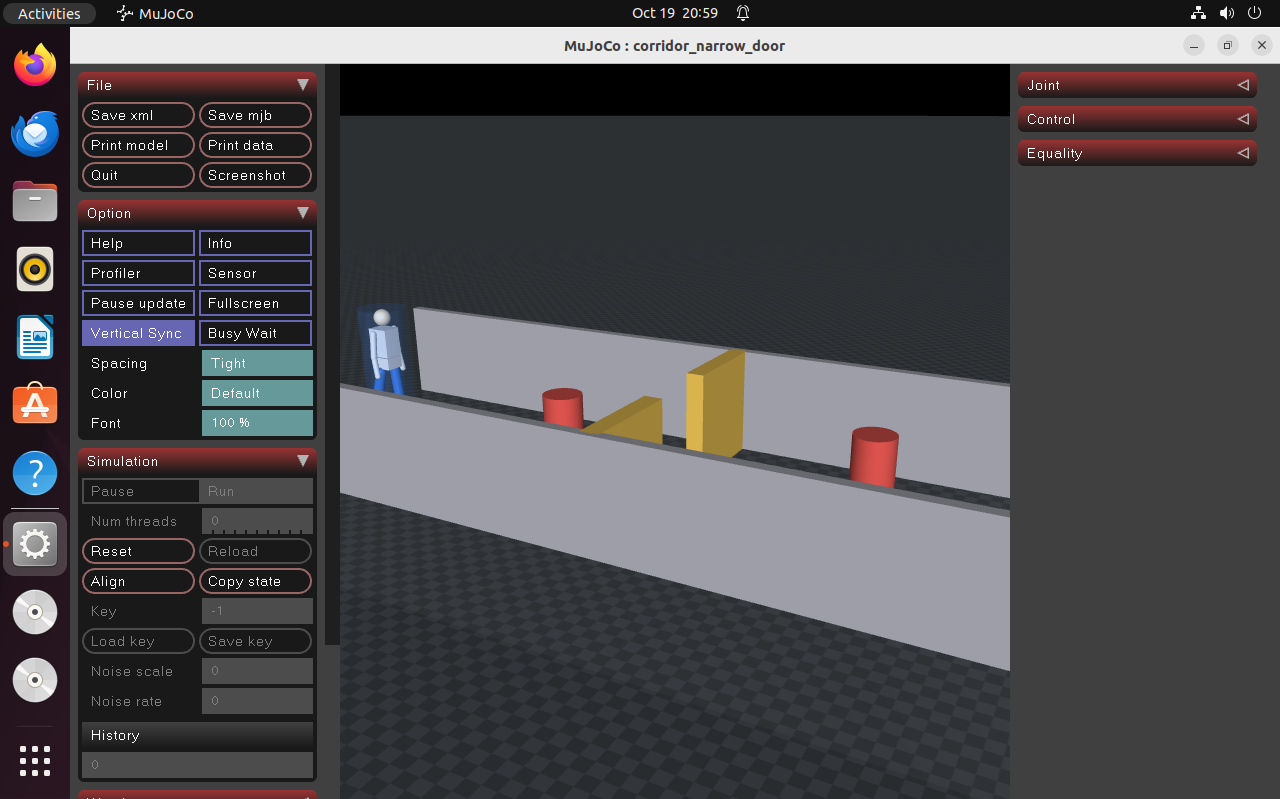
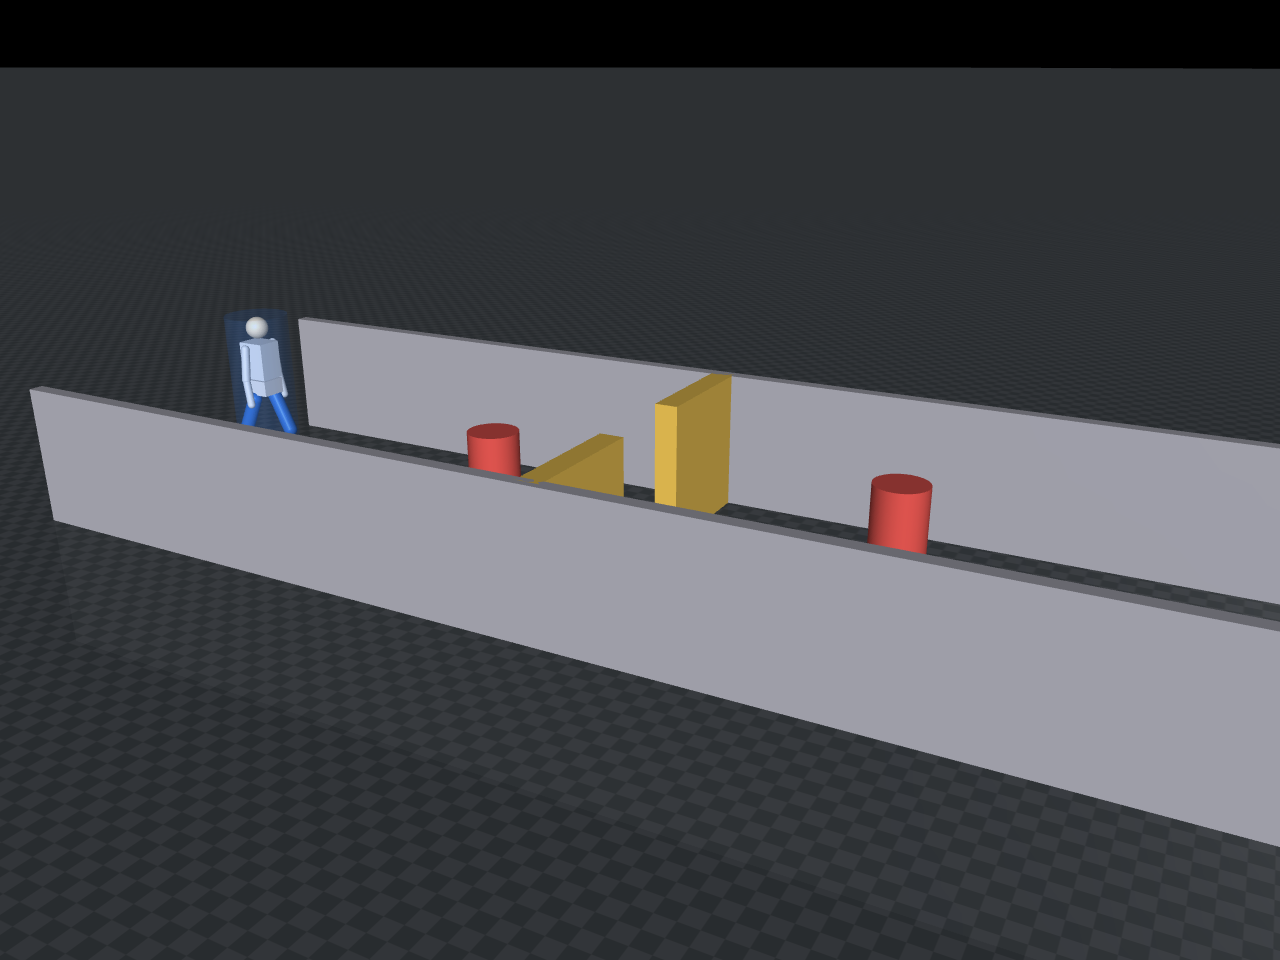
fix(humanoid): 补激光静态 TF、cmd_shot 不再推进物理、修正文档数值
- ros_node 补 planner_bench/base_link -> planner_bench/laser 静态 TF（z=SCAN_HEIGHT），
  RViz 里 LaserScan 不再报 No transform from [planner_bench/laser]
- cmd_shot 保持期间不 mj_step：腿没有驱动力，推进物理会把摆好的步态压平
  （实测 500 步后 root 下沉 20 mm、膝角 0.999 -> 0.03）
- DWA 接上加速度约束（acc / w_acc + HORIZON_STEPS），速度窗口不再取全集，「动态窗口」名副其实
- 脚底几何体上移 0.06，站立时不再陷入地面 6 cm，重新导出 scene_*.png
- 文档：x=1.5 处间隙改为实测 0.600 m（1.100 是中心距）、截图来源改为 --figures、
  动图输出参数与体积说明
- 重跑后 DWA 38.00 s / 17.15 m / 0.167 m / |ω| 0.25，APF 不变；更新表格、README 与动图

diff --git a/src/humanoid/humanoid_local_planner_bench/main.py b/src/humanoid/humanoid_local_planner_bench/main.py
@@ -44,6 +44,10 @@ def build_parser():
     p.add_argument("--headless", action="store_true", help="无窗口运行并导出结果")
     p.add_argument("--demo", action="store_true", help="打开视窗回放")
     p.add_argument("--gif", action="store_true", help="离屏渲染并导出演示动图")
+    p.add_argument("--gif-width", type=int, default=480,
+                   help="动图输出宽度（默认 %(default)s，按 4:3 计算高度）")
+    p.add_argument("--gif-colors", type=int, default=48,
+                   help="动图调色板颜色数（默认 %(default)s，越小体积越小）")
     p.add_argument("--figures", action="store_true", help="导出四宫格场景图与单图")
     p.add_argument("--shot", action="store_true", help="打开指定机位的视窗并保持（用于桌面截图）")
     p.add_argument("--view", default="persp",
@@ -225,11 +229,22 @@ def cmd_gif(args):
         return 1
     out = Path(args.save_dir) / "planner_demo.gif"
     out.parent.mkdir(parents=True, exist_ok=True)
-    frames[0].save(out, save_all=True, append_images=frames[1:],
-                   duration=90, loop=0, optimize=True)
+    # 统一调色板 + 抽帧，避免逐帧独立量化带来的体积膨胀和抖动
+    step = max(1, round(len(frames) / 30.0))
+    picked = frames[::step]
+    gw = max(160, min(args.gif_width, w))
+    gh = int(round(gw * h / w))
+    picked = [f.resize((gw, gh), Image.LANCZOS) for f in picked]
+    first = picked[0].quantize(colors=max(8, min(256, args.gif_colors)),
+                               method=Image.MEDIANCUT)
+    q = [first] + [f.quantize(palette=first, dither=Image.FLOYDSTEINBERG)
+                   for f in picked[1:]]
+    q[0].save(out, save_all=True, append_images=q[1:],
+              duration=90 * step, loop=0, optimize=True, disposal=2)
+    frames = picked
     size = out.stat().st_size / 1024
-    print("[动图] {}  帧数={}  尺寸={}x{}  {:.0f} KB".format(
-        out.resolve(), len(frames), w, h, size))
+    print("[动图] {}  帧数={}（每 {} 帧取 1）  尺寸={}x{}  {} 色  {:.0f} KB".format(
+        out.resolve(), len(q), step, gw, gh, args.gif_colors, size))
     del renderer
     return 0
 
@@ -258,11 +273,12 @@ def cmd_shot(args):
     viewer.cam.azimuth = az
     viewer.cam.elevation = el
     print("[截图模式] 机位={}，保持 {} 秒".format(args.view, args.hold))
+    # 不推进物理：腿没有驱动力，mj_step 会把摆好的步态压平（实测 500 步后
+    # root 下沉 20 mm、膝角从 0.999 掉到 0.03），截图时只保持当前位姿。
     end = time.time() + args.hold
     while viewer.is_running() and time.time() < end:
-        mujoco.mj_step(sim.model, sim.data)
         viewer.sync()
-        time.sleep(0.02)
+        time.sleep(0.05)
     viewer.close()
     return 0
 

diff --git a/src/humanoid/humanoid_local_planner_bench/humanoid_local_planner_bench/ros_node.py b/src/humanoid/humanoid_local_planner_bench/humanoid_local_planner_bench/ros_node.py
@@ -5,7 +5,8 @@
     ~/scan        sensor_msgs/LaserScan   2D 激光（来自 MuJoCo 射线求交）
     ~/odom        nav_msgs/Odometry       机器人位姿
     ~/status      std_msgs/String         JSON：规划器、时间、间距、是否到达
-    TF            world -> planner_bench/base_link
+    TF            world -> planner_bench/base_link（动态）
+                  planner_bench/base_link -> planner_bench/laser（静态，z=SCAN_HEIGHT）
 """
 
 import json
@@ -17,7 +18,7 @@ from geometry_msgs.msg import TransformStamped
 from nav_msgs.msg import Odometry
 from sensor_msgs.msg import LaserScan
 from std_msgs.msg import String
-from tf2_ros import TransformBroadcaster
+from tf2_ros import StaticTransformBroadcaster, TransformBroadcaster
 
 from . import config
 from .planners import PLANNERS
@@ -64,11 +65,27 @@ class PlannerBenchNode(Node):
         self.pub_odom = self.create_publisher(Odometry, '~/odom', 10)
         self.pub_status = self.create_publisher(String, '~/status', 10)
         self.tf = TransformBroadcaster(self)
+        self.tf_static = StaticTransformBroadcaster(self)
+        self._publish_static_tf()
         self.create_timer(self.dt, self._tick)
 
         self.get_logger().info(
             '规划器对比节点已启动 | planner={} | {} 束激光 | {:.0f} Hz | 门洞净宽 0.90 m'
             .format(name, n_rays, hz))
+
+    def _publish_static_tf(self):
+        """补 planner_bench/base_link -> planner_bench/laser 的静态 TF。
+
+        激光从机器人中心上方 SCAN_HEIGHT 处发出，LaserScan 的 frame_id 用的是
+        planner_bench/laser；不补这条 RViz 会报 No transform，激光画不出来。
+        """
+        tf = TransformStamped()
+        tf.header.stamp = self.get_clock().now().to_msg()
+        tf.header.frame_id = 'planner_bench/base_link'
+        tf.child_frame_id = 'planner_bench/laser'
+        tf.transform.translation.z = config.SCAN_HEIGHT
+        tf.transform.rotation.w = 1.0
+        self.tf_static.sendTransform(tf)
 
     # ------------------------------------------------------------------
     def _tick(self):

diff --git a/src/humanoid/humanoid_local_planner_bench/humanoid_local_planner_bench/planners.py b/src/humanoid/humanoid_local_planner_bench/humanoid_local_planner_bench/planners.py
@@ -38,13 +38,18 @@ class BasePlanner:
         raise NotImplementedError
 
 
+HORIZON_STEPS = 8          # 动态窗口覆盖多少个预测步（_predict 步长 0.1 s）
+
+
 class DWAPlanner(BasePlanner):
     """动态窗口法：在可达速度窗口内采样，按 朝向/障碍/速度 三项打分。"""
 
     name = "dwa"
 
-    def __init__(self, v_max=0.8, w_max=1.5, acc=0.6, alpha=2.0, beta=3.0, gamma=0.4):
-        self.v_max, self.w_max, self.acc = v_max, w_max, acc
+    def __init__(self, v_max=0.8, w_max=1.5, acc=0.6, w_acc=2.0,
+                 alpha=2.0, beta=3.0, gamma=0.4):
+        self.v_max, self.w_max = v_max, w_max
+        self.acc, self.w_acc = acc, w_acc
         self.alpha, self.beta, self.gamma = alpha, beta, gamma
         self.v, self.w = 0.0, 0.0
 
@@ -65,9 +70,16 @@ class DWAPlanner(BasePlanner):
 
     def step(self, pose, scan, goal, dt):
         pts = scan_to_points(pose, scan)
-        # 起步时 v=0、动态窗口几乎闭合会卡死，这里退化为「可达速度全集」采样
-        v_lo, v_hi = 0.05, self.v_max
-        w_lo, w_hi = -self.w_max, self.w_max
+        # 动态窗口：只采样本周期内由加速度可达的速度。
+        # HORIZON_STEPS 取 8，对应 _predict 里 0.8 s 的预测跨度；否则起步 v=0
+        # 时窗口几乎闭合会卡死。
+        dv = self.acc * dt * HORIZON_STEPS
+        dw = self.w_acc * dt * HORIZON_STEPS
+        v_lo = max(0.05, self.v - dv)
+        v_hi = min(self.v_max, self.v + dv)
+        w_lo = max(-self.w_max, self.w - dw)
+        w_hi = min(self.w_max, self.w + dw)
+        v_lo = min(v_lo, v_hi - 0.05)          # 保证窗口非空
 
         # 先剔除会撞上障碍的候选（硬约束），再在可行解里按 朝向+速度 择优。
         # 之前把障碍代价直接减进总代价，符号导致"越贴障越优"，会直接撞穿。

diff --git a/src/humanoid/humanoid_local_planner_bench/humanoid_local_planner_bench/config.py b/src/humanoid/humanoid_local_planner_bench/humanoid_local_planner_bench/config.py
@@ -6,6 +6,7 @@ VERSION = "1.0.0"
 CONTROL_HZ = 20.0          # 规划频率 (Hz)
 N_RAYS = 72                # 激光束数（5°间隔，避免 2 m 外点间距大于机器人直径而漏检）
 RAY_RANGE = 4.0            # 激光量程 (m)
+SCAN_HEIGHT = 0.80         # 激光发射点离地高度 (m)，ros_node 用它发布静态 TF
 FOOTPRINT_R = 0.28         # 人形足迹半径 (m)，对应肩宽 0.45 + 裕度
 
 START = (0.0, 0.0, 0.0)    # 起点 (x, y, yaw)

diff --git a/src/humanoid/humanoid_local_planner_bench/humanoid_local_planner_bench/sim_core.py b/src/humanoid/humanoid_local_planner_bench/humanoid_local_planner_bench/sim_core.py
@@ -107,7 +107,7 @@ class CorridorSim:
         """
         mujoco = self.mujoco
         x, y, yaw = self.pose()
-        origin = np.array([x, y, 0.80])
+        origin = np.array([x, y, config.SCAN_HEIGHT])
         out = []
         for i in range(self.n_rays):
             ang = yaw + 2.0 * math.pi * i / self.n_rays

diff --git a/src/humanoid/humanoid_local_planner_bench/README.md b/src/humanoid/humanoid_local_planner_bench/README.md
@@ -19,11 +19,11 @@ Ubuntu 22.04 + MuJoCo 3.15.0，控制频率 20 Hz，到达判定半径 0.35 m。
 
 | 规划器 | 到达 | 时间 (s) | 路径 (m) | 最小间距 (m) | 碰撞步 | 平均 \|ω\| (rad/s) |
 |---|---|---|---|---|---|---|---|
-| DWA | 是 | 52.80 | 17.19 | 0.157 | 0 | 0.18 |
+| DWA | 是 | 38.00 | 17.15 | 0.167 | 0 | 0.25 |
 | APF | 是 | **17.35** | 17.39 | 0.140 | 0 | 0.83 |
 
 - 两者都能通过 0.90 m 窄门且零碰撞——足迹宽度确实进了判定。
-- APF 快约 3 倍，但转向抖动大（平均 |ω| 是 DWA 的 4.6 倍）。
+- APF 快 2.2 倍，但转向抖动大（平均 |ω| 是 DWA 的 3.3 倍）。
 - DWA 慢而平滑：硬约束逐条筛掉会撞的轨迹，安全余量更大。
 
 ## 环境（已验证）
